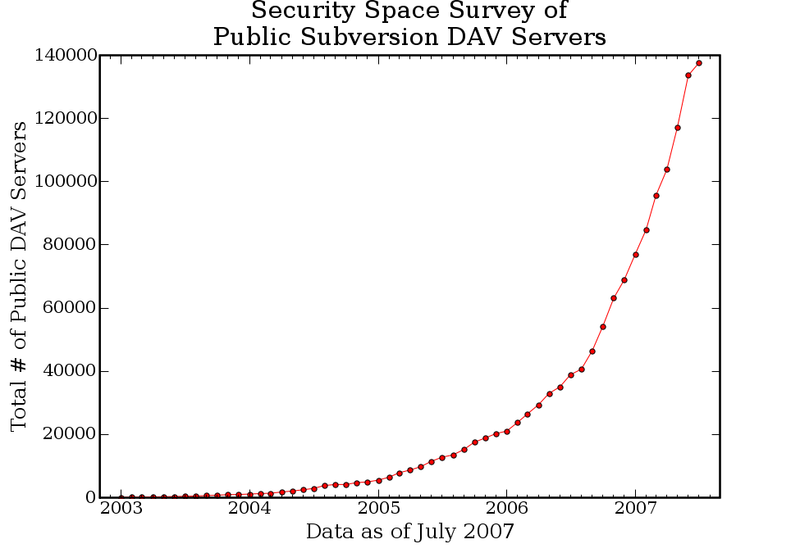
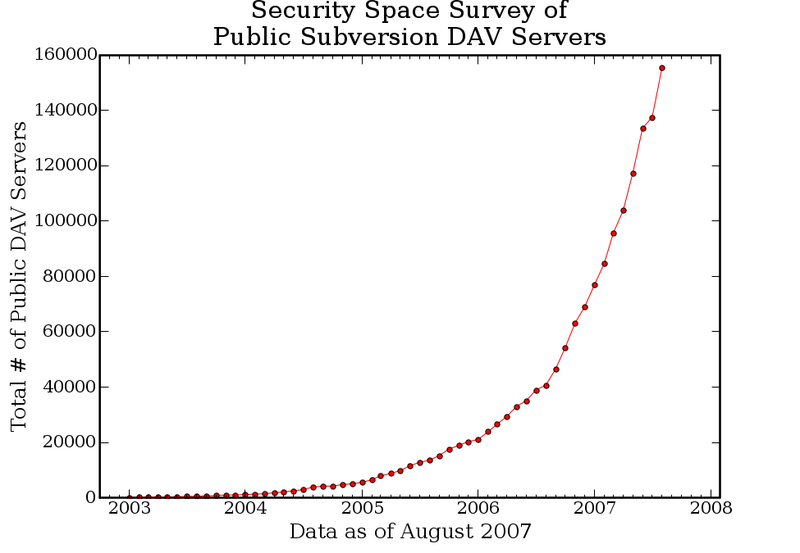
Update the Security Space survey for August 2007.
* www/svn-dav-securityspace-survey.html,
  www/images/svn-dav-securityspace-survey.png,
  tools/dev/graph-dav-servers.py:
  Update image and table.

git-svn-id: http://svn.apache.org/repos/asf/subversion/trunk@865988 13f79535-47bb-0310-9956-ffa450edef68

diff --git a/www/svn-dav-securityspace-survey.html b/www/svn-dav-securityspace-survey.html
@@ -36,12 +36,13 @@ script. -->
 <img src="images/svn-dav-securityspace-survey.png" alt="" />
 
 <p>This information is taken from the <a
-href="http://www.securityspace.com/s_survey/data/man.200706/apachemods.html?mod=U1ZO"
+href="http://www.securityspace.com/s_survey/data/man.200707/apachemods.html?mod=U1ZO"
 >Security Space Apache Modules Survey</a>.  Thanks Security Space!</p>
 
 <table style="margin-left: auto; margin-right: auto;" border="0"
   cellpadding="5" cellspacing="0">
   <tr><th>Date</th><th># Servers</th></tr>
+  <tr><td>August 2007</td><td style="text-align: right">155,426</td></tr>
   <tr><td>July 2007</td><td style="text-align: right">137,575</td></tr>
   <tr><td>June 2007</td><td style="text-align: right">133,665</td></tr>
   <tr><td>May 2007</td><td style="text-align: right">117,267</td></tr>

diff --git a/tools/dev/graph-dav-servers.py b/tools/dev/graph-dav-servers.py
@@ -77,7 +77,8 @@ STATS = """1/1/2003       70
 4/1/2007              103852
 5/1/2007              117267
 6/1/2007              133665
-7/1/2007              137575"""
+7/1/2007              137575
+8/1/2007              155426"""
 
 
 def get_date(raw_date):
